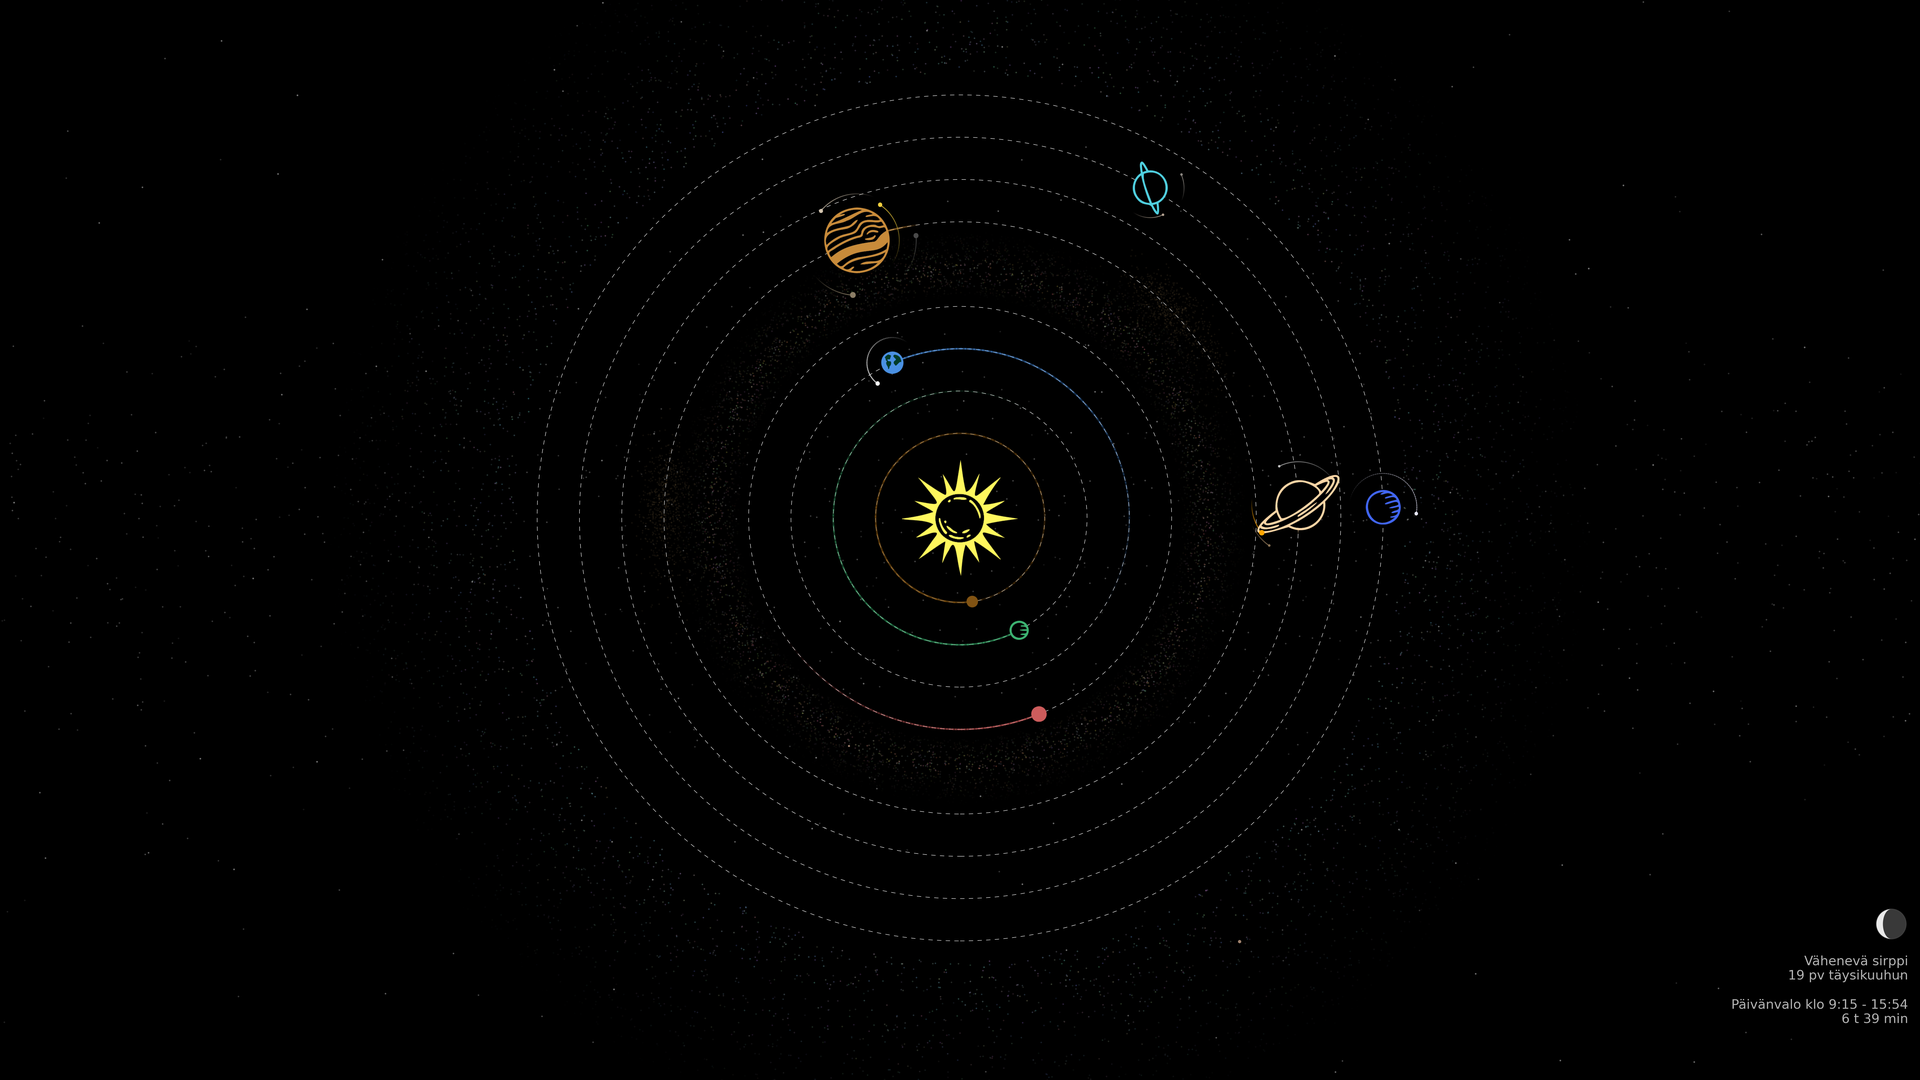
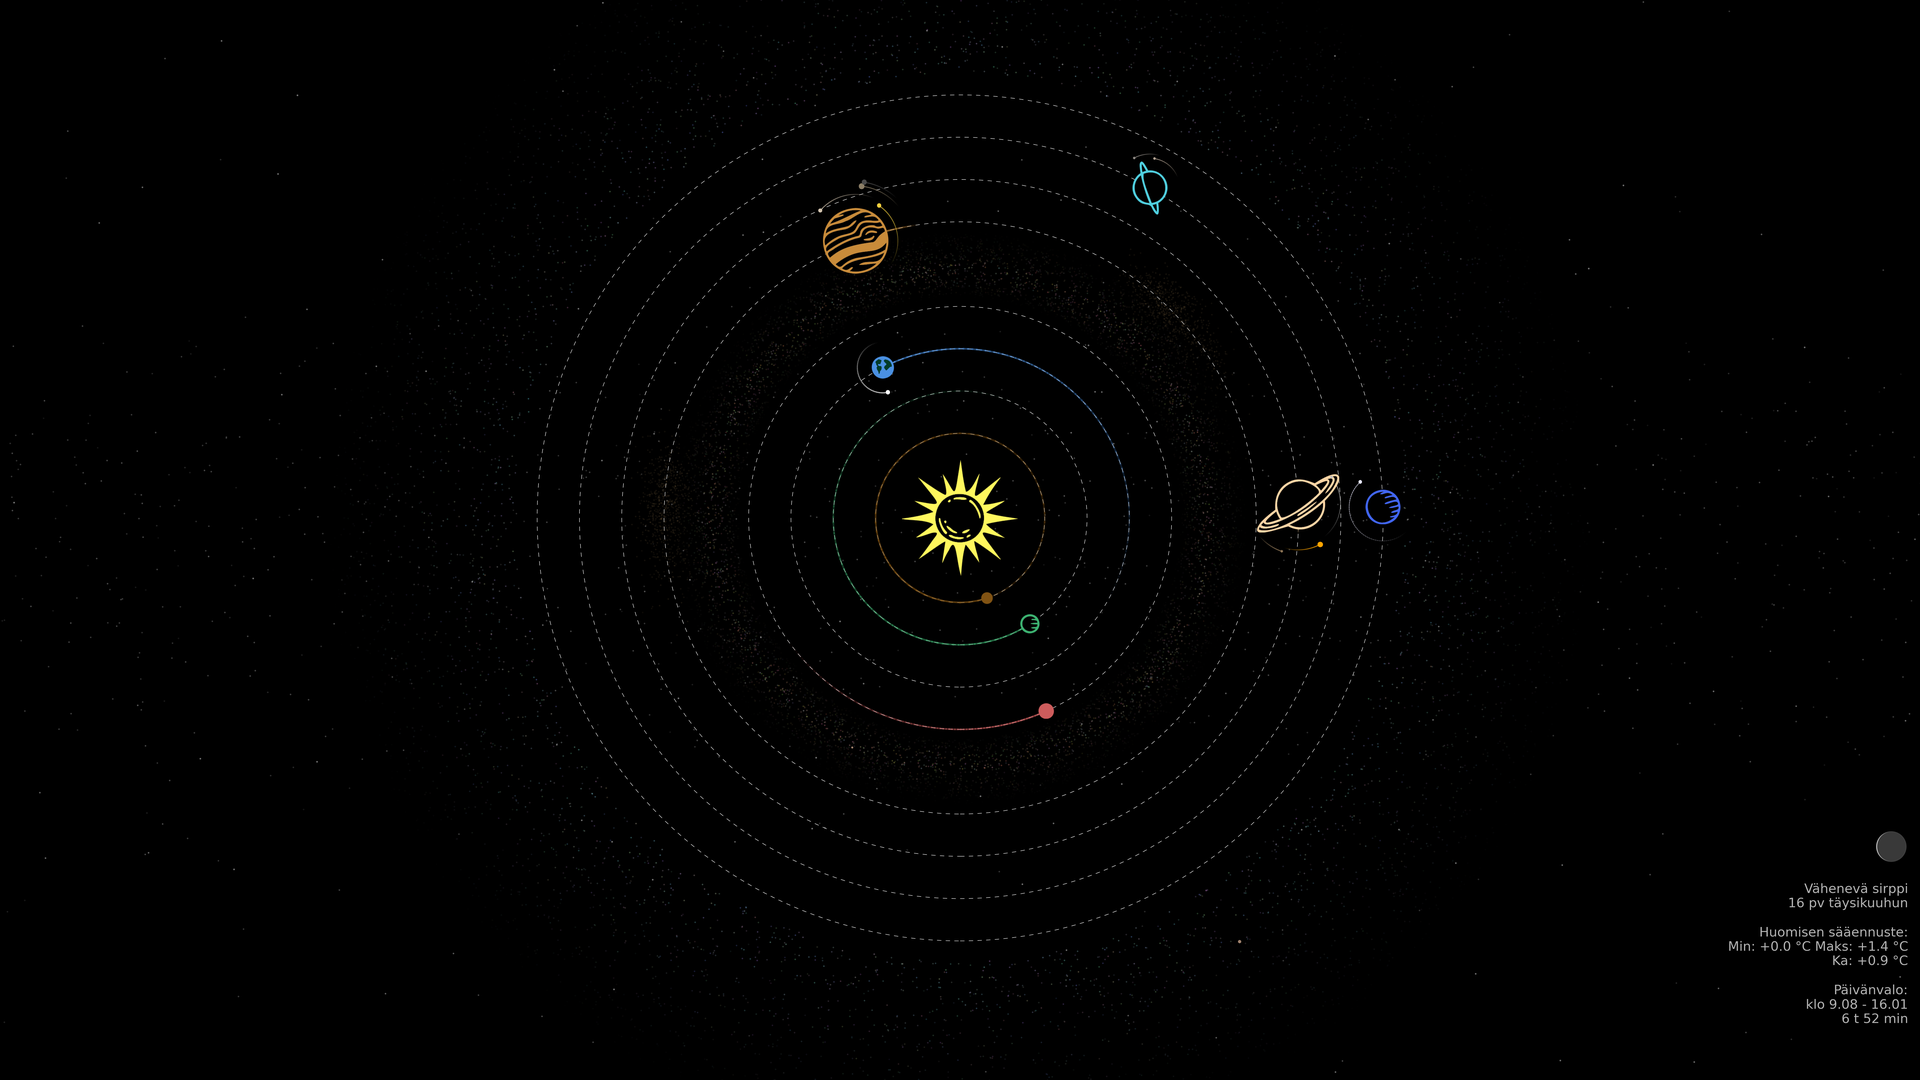
Added weather forecast

diff --git a/solarmap.py b/solarmap.py
@@ -19,14 +19,13 @@ import datetime
 # 1. TO-DO LIST
 # ═══════════════════════════════════════════════════════════════════════════
 
-#TODO: Weather info? (requires internet access)
-##      Previous day temperature average
-##      Forecast high/low for next day
+#TODO: Weather info
+##      Northern lights forecast?
 #TODO: Comets (Halley, Hale-Bopp)
 #TODO: Arguments for command line usage
 #TODO: Realistic elliptical orbits (enables rest of the dwarf planets & astrology)
-## Astrology: Sky division to constellations, meanings of planets in different constellations
-## Dwarf planets: Haumea, Makemake, Eris
+##      Astrology: Sky division to constellations, meanings of planets in different constellations
+##      Dwarf planets: Haumea, Makemake, Eris
 
 
 # ═══════════════════════════════════════════════════════════════════════════
@@ -35,6 +34,10 @@ import datetime
 
 # Bottom right text toggle
 show_info_text = True  # Set to False to hide info text
+
+# Geolocation coordinates for weather forecast, moon phase and rise/set times
+latitude = 60.06977
+longitude = 23.66283
 
 # Custom time input
 custom_date = "Now"  # Options: None, "Now", "YYYY-MM-DD", or "YYYY-MM-DD HH:MM"
@@ -119,6 +122,67 @@ def svg_to_imagebox(svg_path, zoom=0.1, color=None):
 
     return OffsetImage(image, zoom=zoom)
 
+
+
+
+# ═══════════════════════════════════════════════════════════════════════════
+# 4. WEATHER FORECAST FROM FMI (ONLINE)
+# ═══════════════════════════════════════════════════════════════════════════
+
+def get_tomorrow_forecast(lat, lon):
+    """Get tomorrow's min/max/avg temperature from FMI."""
+    import requests
+    import xml.etree.ElementTree as ET
+    from datetime import datetime, timedelta
+    
+    tomorrow = datetime.now() + timedelta(days=1)
+    start_time = tomorrow.replace(hour=0, minute=0).strftime('%Y-%m-%dT%H:%M:%SZ')
+    end_time = tomorrow.replace(hour=23, minute=59).strftime('%Y-%m-%dT%H:%M:%SZ')
+    
+    url = "https://opendata.fmi.fi/wfs"
+    params = {
+        'service': 'WFS',
+        'version': '2.0.0',
+        'request': 'getFeature',
+        'storedquery_id': 'fmi::forecast::harmonie::surface::point::multipointcoverage',
+        'latlon': f'{lat},{lon}',
+        'parameters': 'temperature',
+        'starttime': start_time,
+        'endtime': end_time
+    }
+    
+    try:
+        response = requests.get(url, params=params, timeout=10)
+        print(f"FMI connection status: {response.status_code}")
+        
+        if response.status_code != 200:
+            return None, None, None
+        
+        root = ET.fromstring(response.content)
+        
+        temps = []
+        for elem in root.iter():
+            if 'doubleOrNilReasonTupleList' in elem.tag:
+                values = elem.text.strip().split()
+                temps.extend([float(v) for v in values if v not in ['NaN', '']])
+                print(f"Retrieved {len(temps)} temperature values for tomorrow.")
+
+        if temps:
+            avg_temp = sum(temps) / len(temps)
+            print(f"Tomorrow's temps - Min: {min(temps):+.1f} °C, Max: {max(temps):+.1f} °C, Avg: {avg_temp:+.1f} °C")
+            return min(temps), max(temps), avg_temp
+        else:
+            print("No temps found!")
+
+    except Exception as e:
+        print(f"Exception: {e}")
+    
+    return None, None, None
+
+# Get weather forecast
+min_temp, max_temp, avg_temp = get_tomorrow_forecast(latitude, longitude)
+weather_line = f"\nHuomisen sääennuste:\nMin: {min_temp:+.1f} °C Maks: {max_temp:+.1f} °C\nKa: {avg_temp:+.1f} °C\n" if min_temp is not None else ""
+
 # Get current time
 if custom_date is None or custom_date == "Now":
     utc = Time.Now()
@@ -150,7 +214,7 @@ def longitude_to_theta(longitude):
 
 
 # ═══════════════════════════════════════════════════════════════════════════
-# 4. CANVAS INITIALIZATION
+# 5. CANVAS INITIALIZATION
 # ═══════════════════════════════════════════════════════════════════════════
 
 # Set wallpaper resolution
@@ -184,7 +248,7 @@ cy = cy + cy_offset
 
 
 # ═══════════════════════════════════════════════════════════════════════════
-# 5. BACKGROUND STARS
+# 6. BACKGROUND STARS
 # ═══════════════════════════════════════════════════════════════════════════
 
 # Calculate aspect-aware limits for stars
@@ -219,7 +283,7 @@ ax.scatter(band_x, band_y, s=band_sizes, c='white', alpha=STARS_CONFIG['band_alp
 
 
 # ═══════════════════════════════════════════════════════════════════════════
-# 6. PLANETARY RINGS AND RADII
+# 7. PLANETARY RINGS AND RADII
 # ═══════════════════════════════════════════════════════════════════════════
 
 # Rings
@@ -248,7 +312,7 @@ planet_radii = {p.name: rings[i] for i, p in enumerate(planets)}
 
 
 # ═══════════════════════════════════════════════════════════════════════════
-# 7. PLOTTING PLANETS AND OBJECTS
+# 8. PLOTTING PLANETS AND OBJECTS
 # ═══════════════════════════════════════════════════════════════════════════
 
 # Sun
@@ -344,7 +408,7 @@ for planet in planets:
 
 
 # ═══════════════════════════════════════════════════════════════════════════
-# 8. ASTEROIDS
+# 9. ASTEROIDS
 # ═══════════════════════════════════════════════════════════════════════════
 
 # Asteroid belt between Mars and Jupiter
@@ -394,7 +458,7 @@ ax.scatter(asteroid_x, asteroid_y, s=asteroid_sizes, c=asteroid_colors, alpha=as
 
 
 # ═══════════════════════════════════════════════════════════════════════════
-# 8.1 KUIPER BELT
+# 9.1 KUIPER BELT
 # ═══════════════════════════════════════════════════════════════════════════
 
 # Ranges for Kuiper belt
@@ -432,7 +496,7 @@ ax.scatter(kuiper_x, kuiper_y, s=kuiper_sizes, c=kuiper_colors,
 
 
 # ═══════════════════════════════════════════════════════════════════════════
-# 8.2 JUPITER TROJANS
+# 9.2 JUPITER TROJANS
 # ═══════════════════════════════════════════════════════════════════════════
 
 # Jupiter Trojans - get Jupiter's position
@@ -474,7 +538,7 @@ trojan_cloud(jupiter_r, jupiter_L, -60)   # L5
 
 
 # ═══════════════════════════════════════════════════════════════════════════
-# 9. MOONS AND DWARF PLANETS
+# 10. MOONS AND DWARF PLANETS
 # ═══════════════════════════════════════════════════════════════════════════
 
 # Jupiter's moons
@@ -729,7 +793,7 @@ ax.add_artist(AnnotationBbox(ceres_imagebox, (ceres_x, ceres_y), frameon=False))
 
 
 # ═══════════════════════════════════════════════════════════════════════════
-# 10. CANVAS FINALIZATION
+# 11. CANVAS FINALIZATION
 # ═══════════════════════════════════════════════════════════════════════════
 
 # Limits and aspect
@@ -749,7 +813,7 @@ ax.axis('off')
 
 
 # ═══════════════════════════════════════════════════════════════════════════
-# 11. BOTTOM RIGHT INFO
+# 12. BOTTOM RIGHT INFO
 # ═══════════════════════════════════════════════════════════════════════════
 
 if show_info_text:
@@ -760,10 +824,6 @@ if show_info_text:
     else:
         text_x = 1.3 - 0.07
         text_y = (-1.3 / aspect) + (taskbar_offset * 2.6) + 0.1
-
-    # Geolocation coordinates
-    latitude = 60.06977
-    longitude = 23.66283
 
     # Convert astronomy Time to Python datetime in UTC
     cal = [int(x) for x in utc.Calendar()[:6]]
@@ -784,8 +844,8 @@ if show_info_text:
     sunrise_local = sunrise_utc.astimezone(ZoneInfo('Europe/Helsinki'))
     sunset_local = sunset_utc.astimezone(ZoneInfo('Europe/Helsinki'))
 
-    sunrise_time = f"{sunrise_local.hour}:{sunrise_local.minute:02d}"
-    sunset_time = f"{sunset_local.hour}:{sunset_local.minute:02d}"
+    sunrise_time = f"{sunrise_local.hour}.{sunrise_local.minute:02d}"
+    sunset_time = f"{sunset_local.hour}.{sunset_local.minute:02d}"
 
     # Calculate daylight hours
     daylight_duration = sunset_local - sunrise_local
@@ -795,8 +855,14 @@ if show_info_text:
 
 
 
+
+
+
+
+
+
 # ═══════════════════════════════════════════════════════════════════════════
-# 11.1 MOON PHASE
+# 12.1 MOON PHASE
 # ═══════════════════════════════════════════════════════════════════════════
 
     # Get moon phase info
@@ -829,9 +895,34 @@ if show_info_text:
         else:
             phase_name = "Vähenevä sirppi"  # "Waning crescent"
 
-    # Position for moon phase circle
+    # Search for next full moon (phase 180°) within next 30 days
+    next_full_moon = SearchMoonPhase(180, utc, 30)
+    days_to_full = next_full_moon.ut - utc.ut  # Difference in days
+
+
+
+
+# ═══════════════════════════════════════════════════════════════════════════
+# 12.2 PLOT INFO TEXT
+# ═══════════════════════════════════════════════════════════════════════════
+
+    info_text = (
+        f"{phase_name}\n"
+        f"{days_to_full:.0f} pv täysikuuhun\n"
+        f"{weather_line}"
+        f"\n"
+        f"Päivänvalo:\n"
+        f"klo {sunrise_time} - {sunset_time}\n"
+        f"{daylight_hours} t {daylight_mins} min"
+    )
+
+    # Count lines to position moon indicator at first line
+    num_lines = info_text.count('\n')+1
+    line_height = 0.047  # Adjust if needed for your text size
+
+    # Position for moon phase circle (aligned with first line)
     moon_indicator_x = text_x - 0.04
-    moon_indicator_y = text_y + 0.24
+    moon_indicator_y = text_y + (num_lines - 1) * line_height  # Top line position
     moon_radius = 0.035
 
     # Draw dark gray base circle
@@ -881,26 +972,7 @@ if show_info_text:
             
             ax.fill(x_lit, y_lit, color='white', alpha=0.9, zorder=11, linewidth=0)
 
-    # Search for next full moon (phase 180°) within next 30 days
-    next_full_moon = SearchMoonPhase(180, utc, 30)
-    days_to_full = next_full_moon.ut - utc.ut  # Difference in days
-
-
-
-
-# ═══════════════════════════════════════════════════════════════════════════
-# 11.2 PLOT INFO TEXT
-# ═══════════════════════════════════════════════════════════════════════════
-
-    # Plot text
-    info_text = (
-        f"{phase_name}\n"
-        f"{days_to_full:.0f} pv täysikuuhun\n"
-        f"\n"
-        f"Päivänvalo klo {sunrise_time} - {sunset_time}\n"
-        f"{daylight_hours} t {daylight_mins} min"
-    )
-
+    # Plot info text
     ax.text(text_x, text_y, info_text,
             color='white', fontsize=12,
             ha='right', va='bottom',
@@ -910,7 +982,7 @@ if show_info_text:
 
 
 # ═══════════════════════════════════════════════════════════════════════════
-# 12. FINALIZE AND SAVE IMAGE
+# 13. FINALIZE AND SAVE IMAGE
 # ═══════════════════════════════════════════════════════════════════════════
 
 # Save and show
